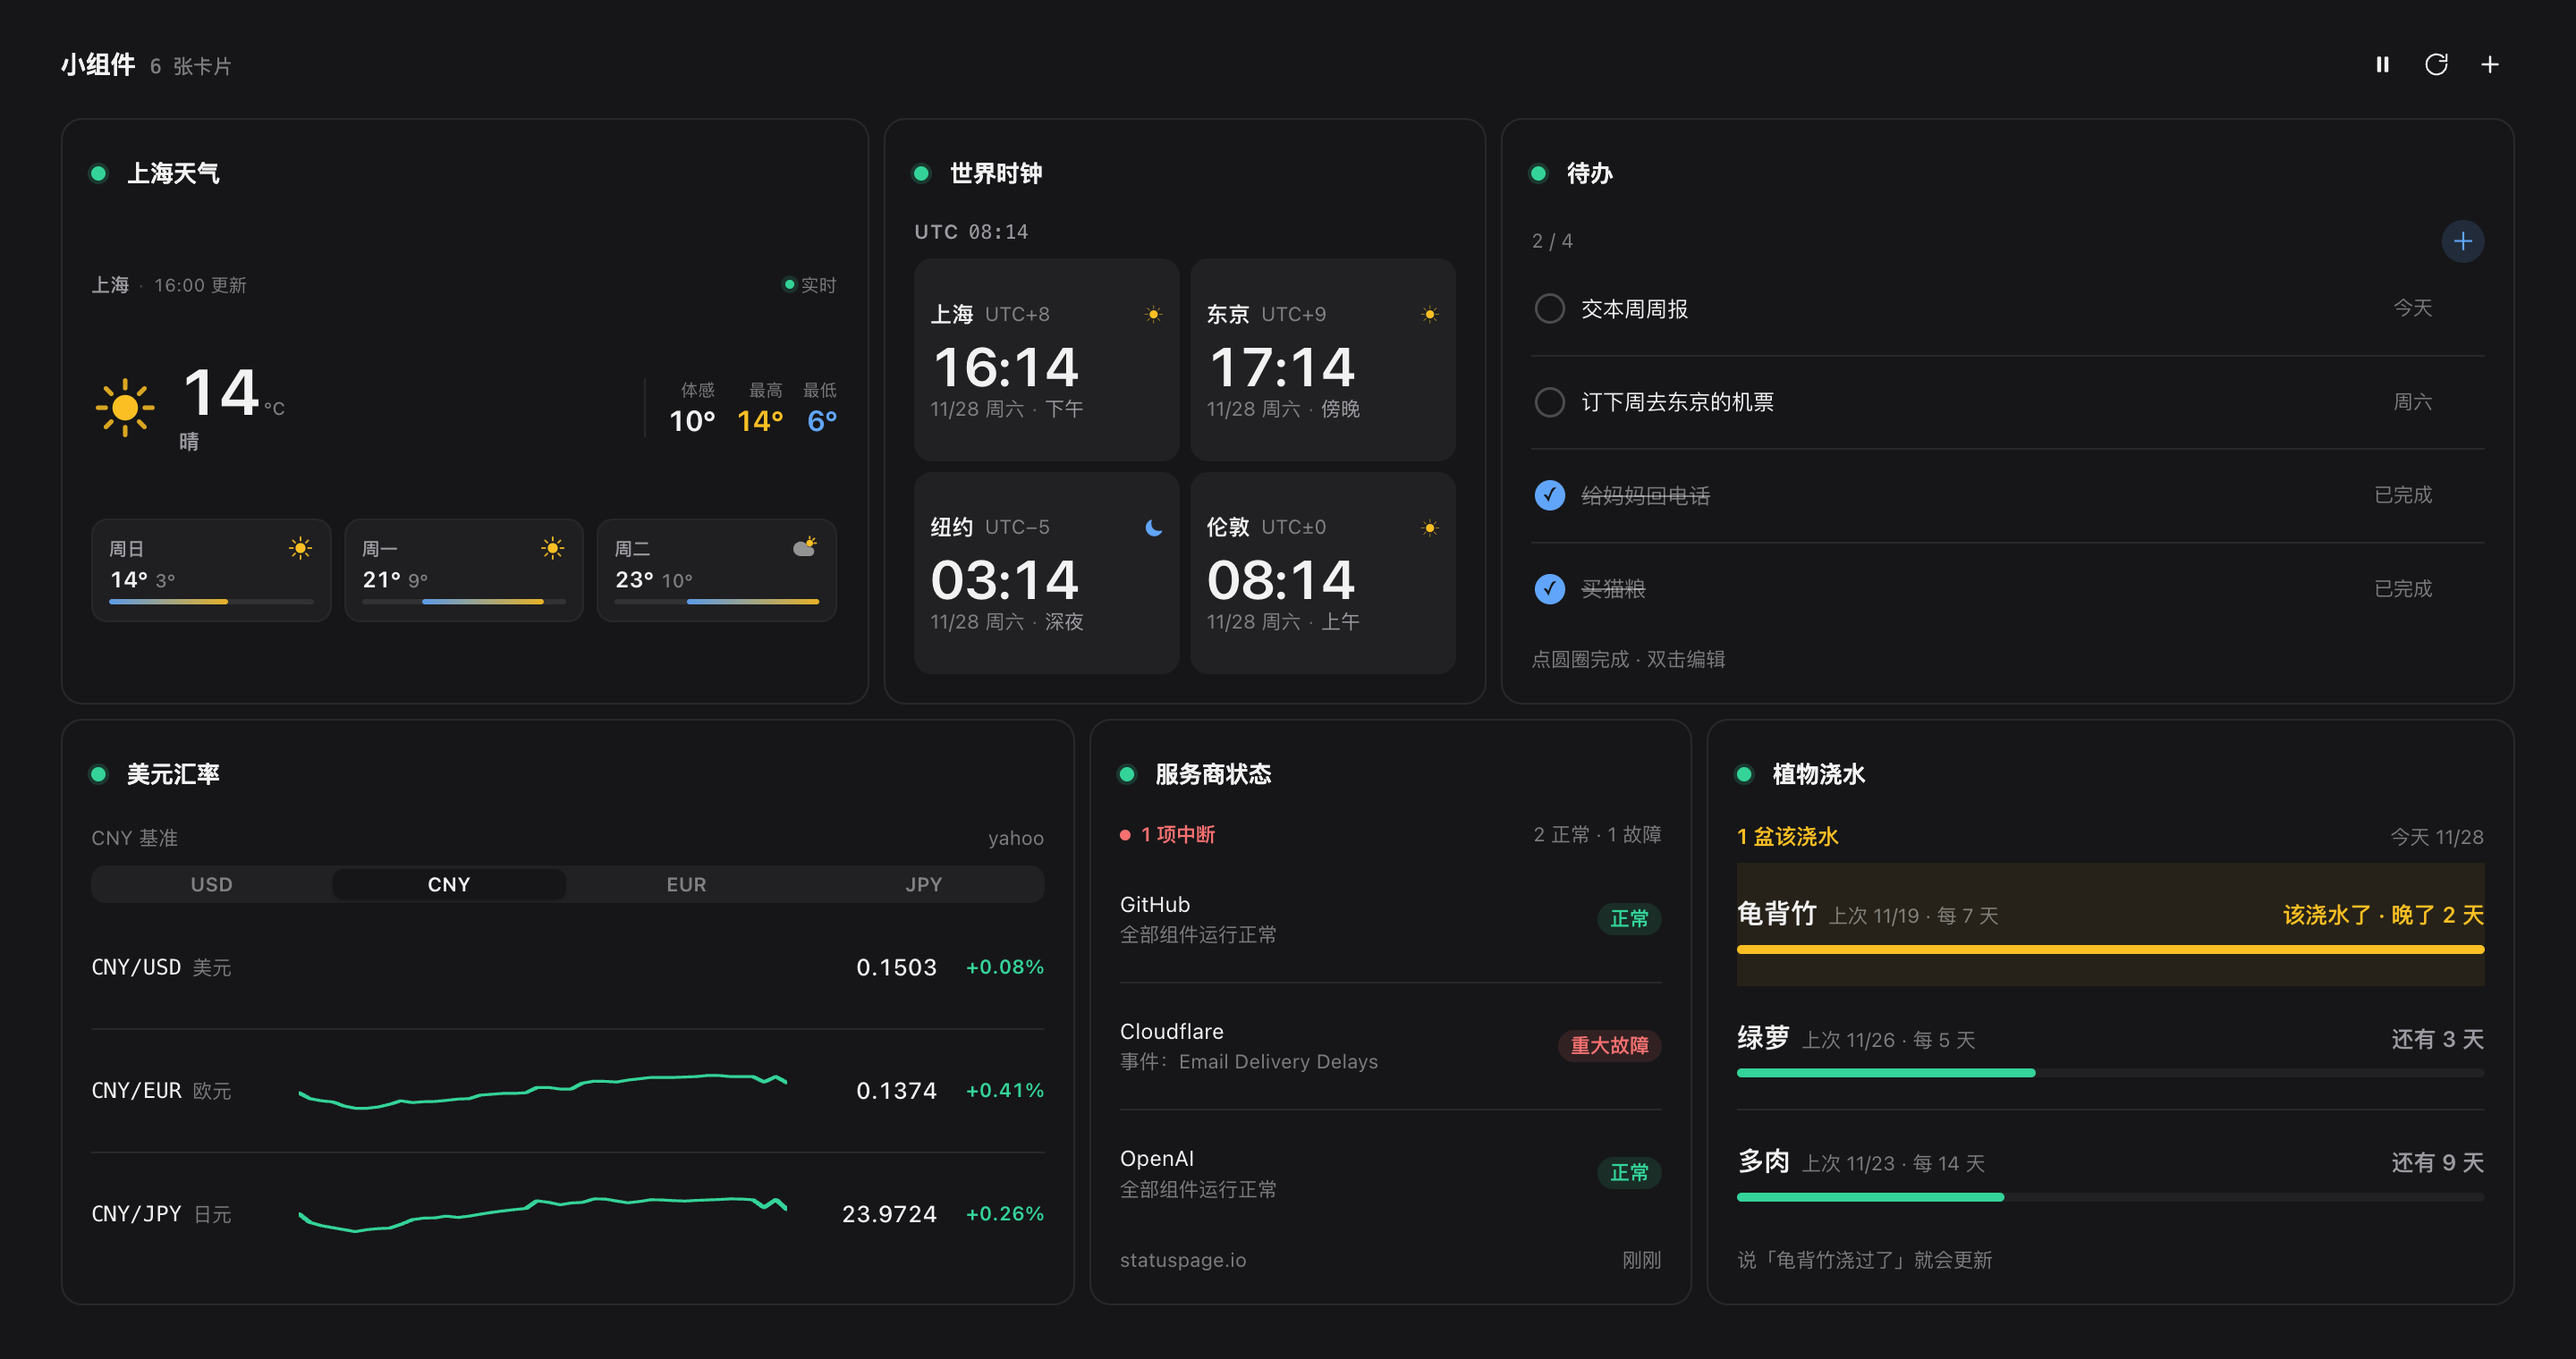
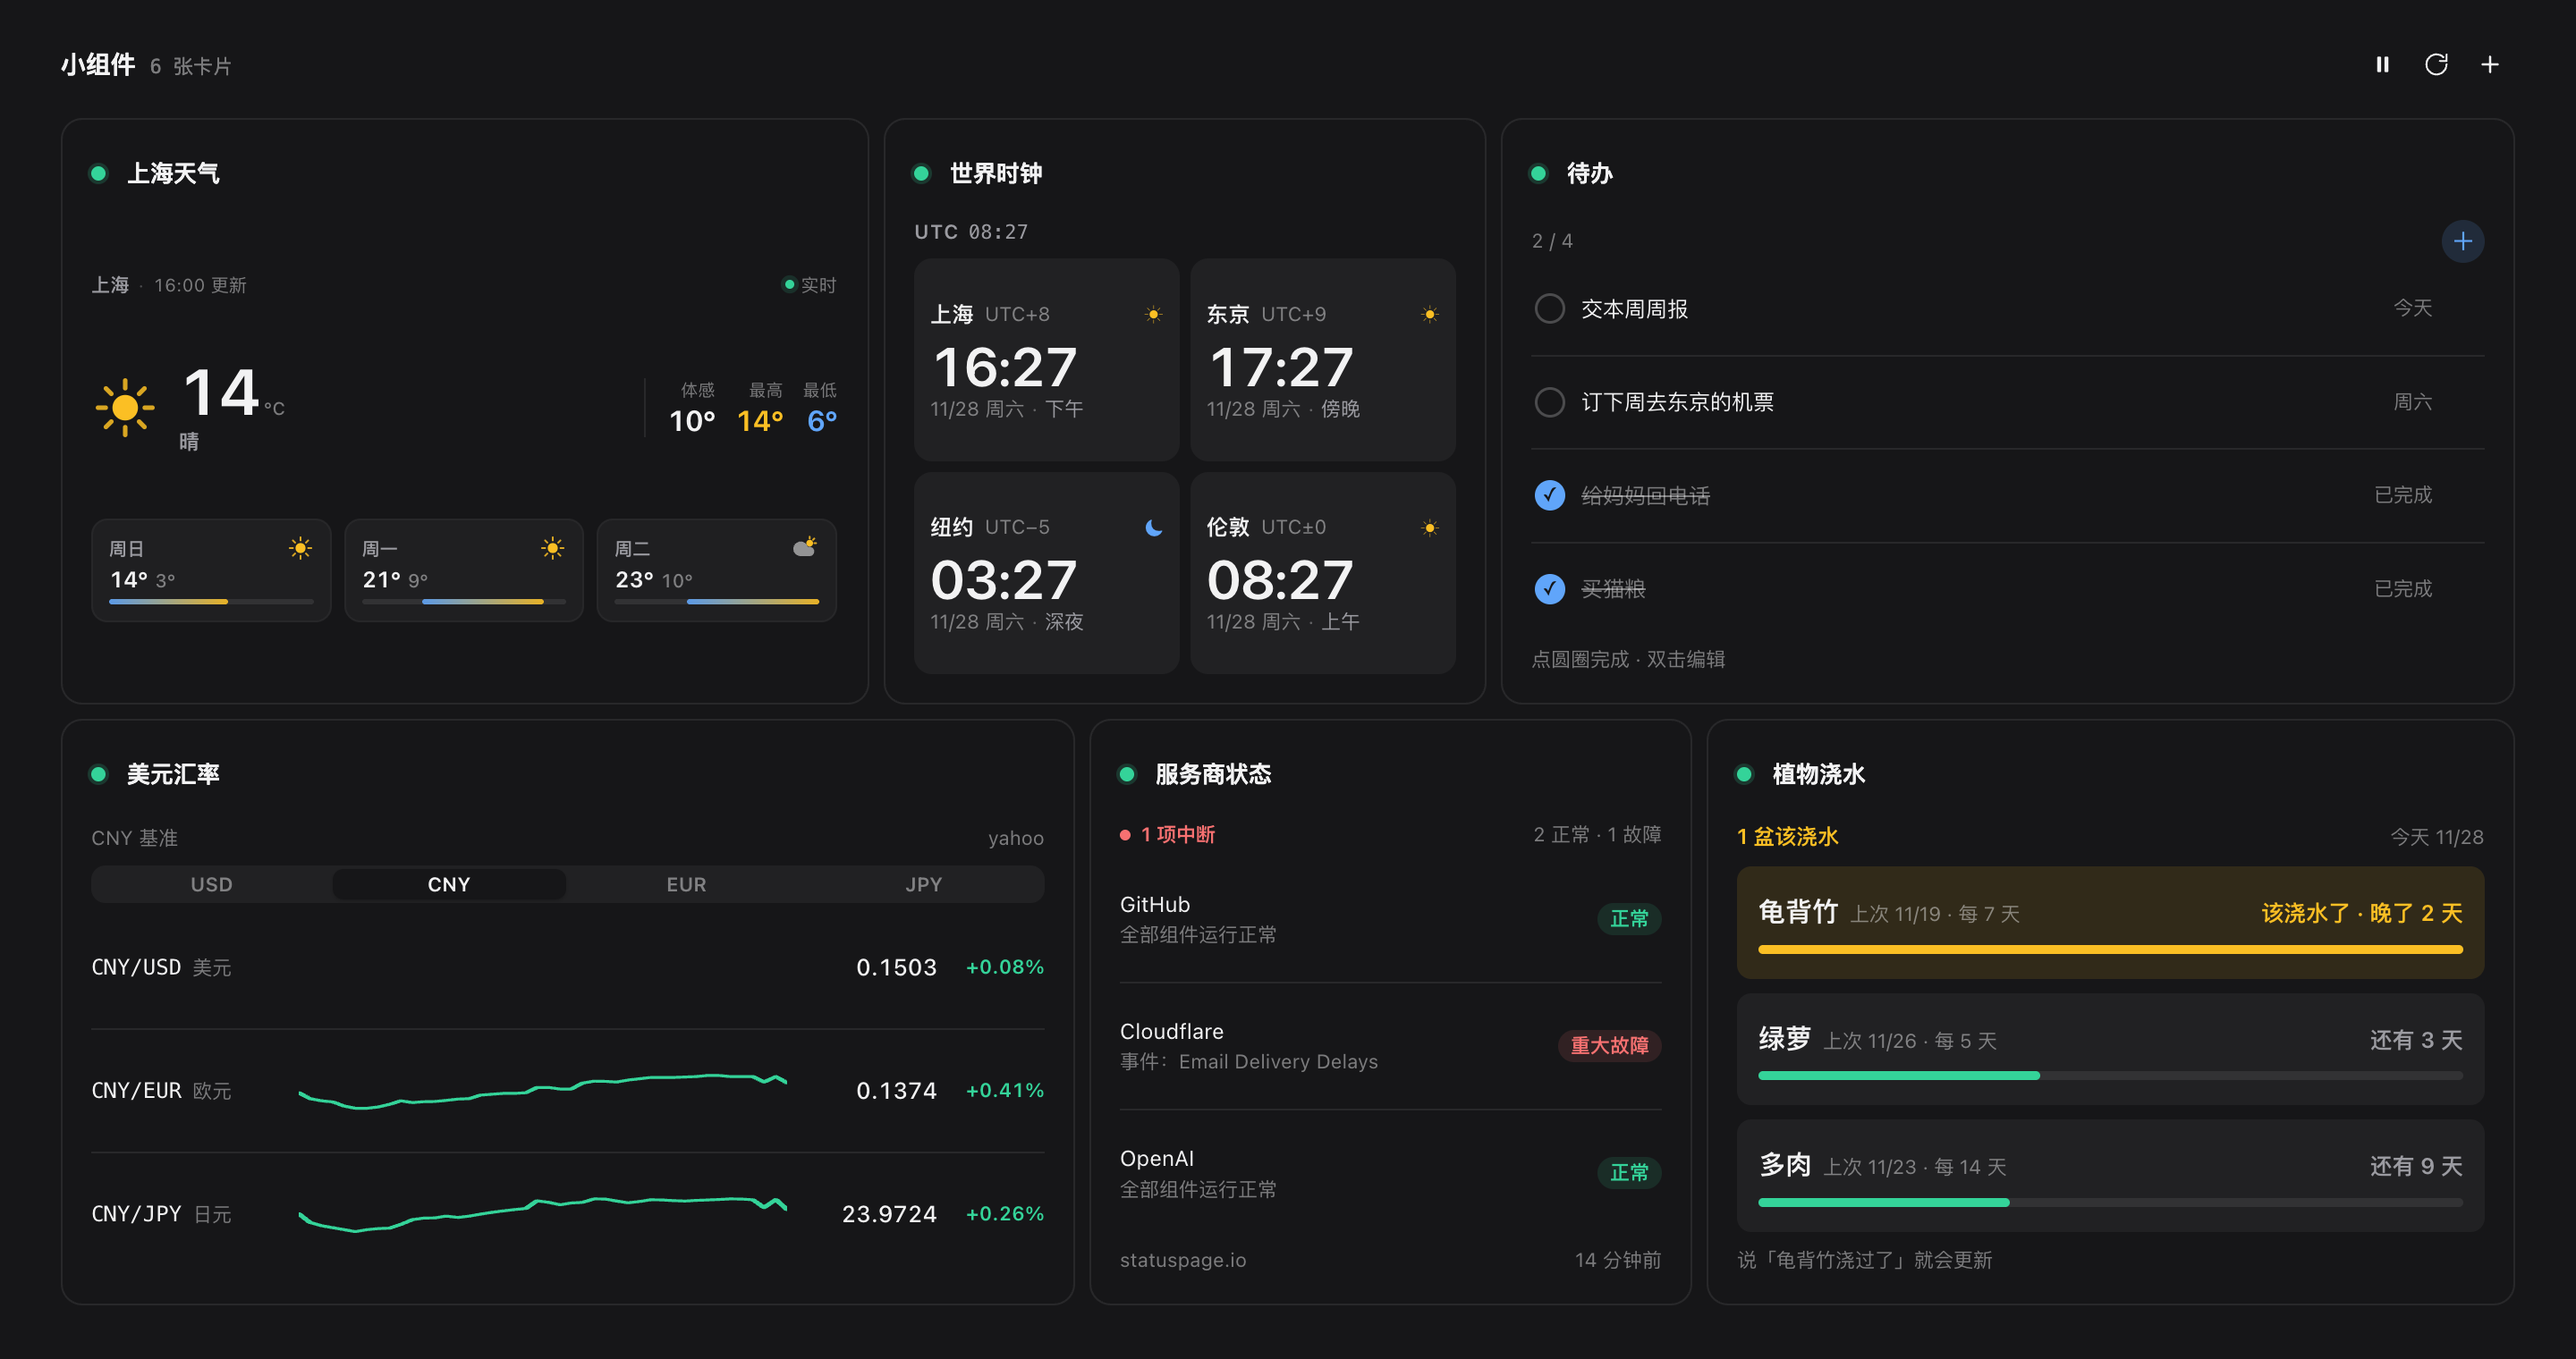
release: 0.7.1（列表项审美规则 + od-items / od-item 组件）
- 设计系统新增 od-items / od-item：一块一块的列表项，自带左右 12px 内边距和底色，data-tone 换语义色
- view/README.md 新增「审美规则」：有底色、边框、高亮的列表项左右不能贴边；同一列表内边距一致，
  不许只给高亮项加内边距或用负 margin 出血；建卡提示词同步加上这条
- README 配图更新：植物浇水卡改用 od-item

diff --git a/host/sessions.js b/host/sessions.js
@@ -21,6 +21,8 @@ export const CARD_OPENING = [
   '   不要依赖 PATH 或当前目录——宿主一升级，环境变量就可能变，相对路径会静默失效；',
   '3) 展示：优先保留 view/ 里的默认视图，它按数据形状自动排版；需要特殊视觉再改 view/ 里的文件。',
   '   只用 --od-* token 和 od-* 组件类；不要写死颜色或小于 11px 的字号；不要外链资源；',
+  '   一块一块的列表项（有底色、边框或高亮）左右至少留 12px 内边距，同一列表每项一致，不要只给高亮项加、不要负 margin 出血；',
+  '   直接用 od-items / od-item 组件（见 view/README.md「审美规则」）；',
   '   尺寸预算（必须自己算，不要靠 overflow:hidden 藏住被裁的内容）：卡片四周留 13px padding，',
   '   4×6 内容区约 404×224，6×6 约 614×224，3×6 约 294×224。把每一行的高度、gap、margin、',
   '   图表高度、标题全部加起来，必须小于等于内容区高度；所有元素的底边不得超出卡片底边，文字之间不得重叠。',

diff --git a/host/design-system/theme.css b/host/design-system/theme.css
@@ -259,6 +259,30 @@ a.od-row-wrap:hover .od-row-label {
   white-space: nowrap;
 }
 
+/* 一块一块的列表项：自带左右内边距。凡是有底色、边框或高亮的项都用它，
+   不要让项里的文字贴着色块边缘，也不要只给高亮那一项加内边距。 */
+.od-items {
+  display: flex;
+  flex-direction: column;
+  gap: var(--od-space-2, 8px);
+  min-height: 0;
+}
+
+.od-item {
+  display: flex;
+  flex-direction: column;
+  justify-content: center;
+  gap: var(--od-space-1, 4px);
+  min-width: 0;
+  padding: var(--od-space-2, 8px) var(--od-space-3, 12px);
+  border-radius: var(--od-r-control, 8px);
+  background: var(--od-surface-2);
+}
+
+.od-item[data-tone="up"] { background: color-mix(in srgb, var(--od-green) 10%, transparent); }
+.od-item[data-tone="down"] { background: color-mix(in srgb, var(--od-red) 10%, transparent); }
+.od-item[data-tone="warn"] { background: color-mix(in srgb, var(--od-amber) 12%, transparent); }
+
 .od-rank {
   flex: none;
   min-width: 18px;

diff --git a/host/design-system/scaffold/README.md b/host/design-system/scaffold/README.md
@@ -48,6 +48,7 @@ window.dshWidget.save(value)   // 交互卡写回自己的 data/state.json（JSO
 | `od-hero` / `od-metric-label` / `od-metric-value` | 顶部大指标 |
 | `od-delta-pill` | 涨跌胶囊；`data-tone="up\|down\|warn"` |
 | `od-rows` / `od-row` / `od-row-label` / `od-row-value` / `od-row-sub` | 列表行 |
+| `od-items` / `od-item` | 一块一块的列表项（自带左右内边距和底色）；`data-tone="up\|down\|warn"` 换语义色 |
 | `od-rank` | 行首序号 |
 | `od-list-head` / `od-list-count` | 列表头 |
 | `od-table-head` / `od-table-row` / `od-th` / `od-td` | 表格 |
@@ -104,6 +105,15 @@ window.dshWidget.save({ focus: 'NVDA', range: '1M' });
 3. 不加载外链资源：`<script src>`、`<link>`、`url(https://…)`、`@import` 都会被拦。
 4. 内容必须放得下：不要依赖滚动条；用 `od.fitRows` 或自己按高度截断。
 5. 视图总大小不超过 200KB。
+
+## 审美规则（lint 查不出来，但必须遵守）
+
+1. **一项一项的东西，左右不能贴边。** 只要列表项有底色、边框、高亮色块，或者整张卡就是由一块块小卡组成，
+   项里的文字和进度条离色块左右边缘至少 12px（`--od-space-3`）。直接用 `od-items` / `od-item` 最省事。
+2. **同一列表的每一项内边距一致。** 不要只给高亮的那一项加内边距，也不要用负 margin 让高亮色块「出血」到卡片边缘：
+   高亮项和普通项的文字左边缘必须对齐。
+3. 只用分隔线隔开、没有底色的纯文字行（`od-rows`、`od-status-rows`）可以和卡片标题左对齐；
+   但只要其中任何一行要加底色高亮，就整列改成 `od-item`。
 
 改完可以调用 `card_check` 自检；`card_finish` 会自动跑同样的检查，出错会被打回。
 
